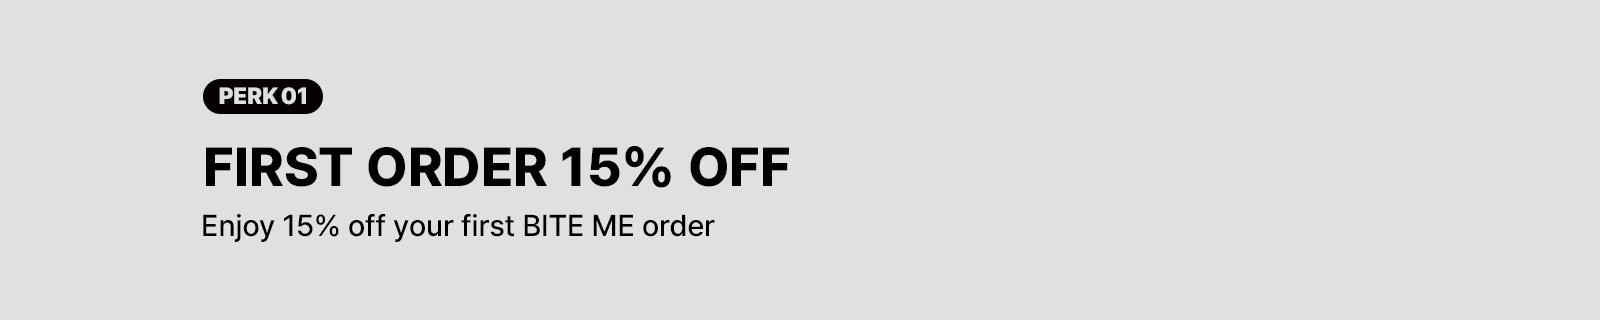
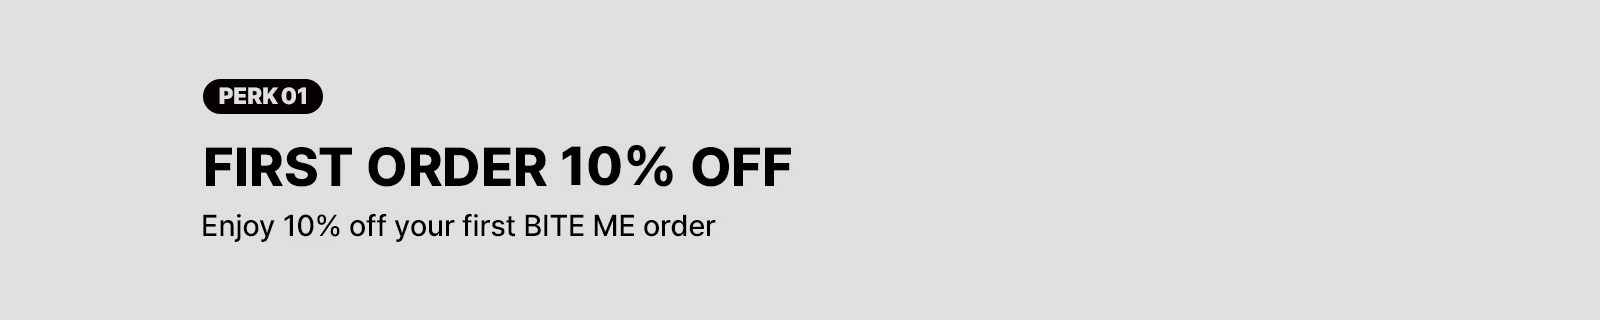
fix: 홈 롤링 배너·혜택 안내의 첫 구매 할인 15% → 10% (실제 쿠폰 WELCOMEUS10·WELCOME10) (#198)
- promo-1 PC·모바일 이미지는 promo-3의 같은 글꼴 '10%'를 옮겨 다시 만듦
- 두 사이트 공통 (biteme.one 첫 구매 코드도 10%)

Changed region(s): [[0.1875, 0.6562, 0.4688, 0.75], [0.3438, 0.4375, 0.5, 0.5938]]

diff --git a/src/components/home/how-it-works/howItWorksData.ts b/src/components/home/how-it-works/howItWorksData.ts
@@ -6,7 +6,7 @@ export interface StepDef {
 }
 
 export const STEP_DEFS: StepDef[] = [
-  { icon: Tag,   lines: ["Welcome 15% Off", "First-time customers"] },
+  { icon: Tag,   lines: ["Welcome 10% Off", "First-time customers"] },
   { icon: Truck, lines: ["Free Shipping", "Over $75+ only"] },
   { icon: Heart, lines: ["Review Content", "Apply Affiliate"] },
   { icon: Gift,  lines: ["Earn Commission", "10% on all sales!"] },

diff --git a/src/components/home/promo/promoData.ts b/src/components/home/promo/promoData.ts
@@ -17,7 +17,7 @@ export const isExternalHref = (href: string) => /^https?:\/\//.test(href);
 
 export const PROMO_DEFS: PromoDef[] = [
   {
-    title: "First Purchase 15% Off",
+    title: "First Purchase 10% Off",
     href: "/mypage",
     pcImage: promo1Pc,
     mobileImage: promo1Mobile,
